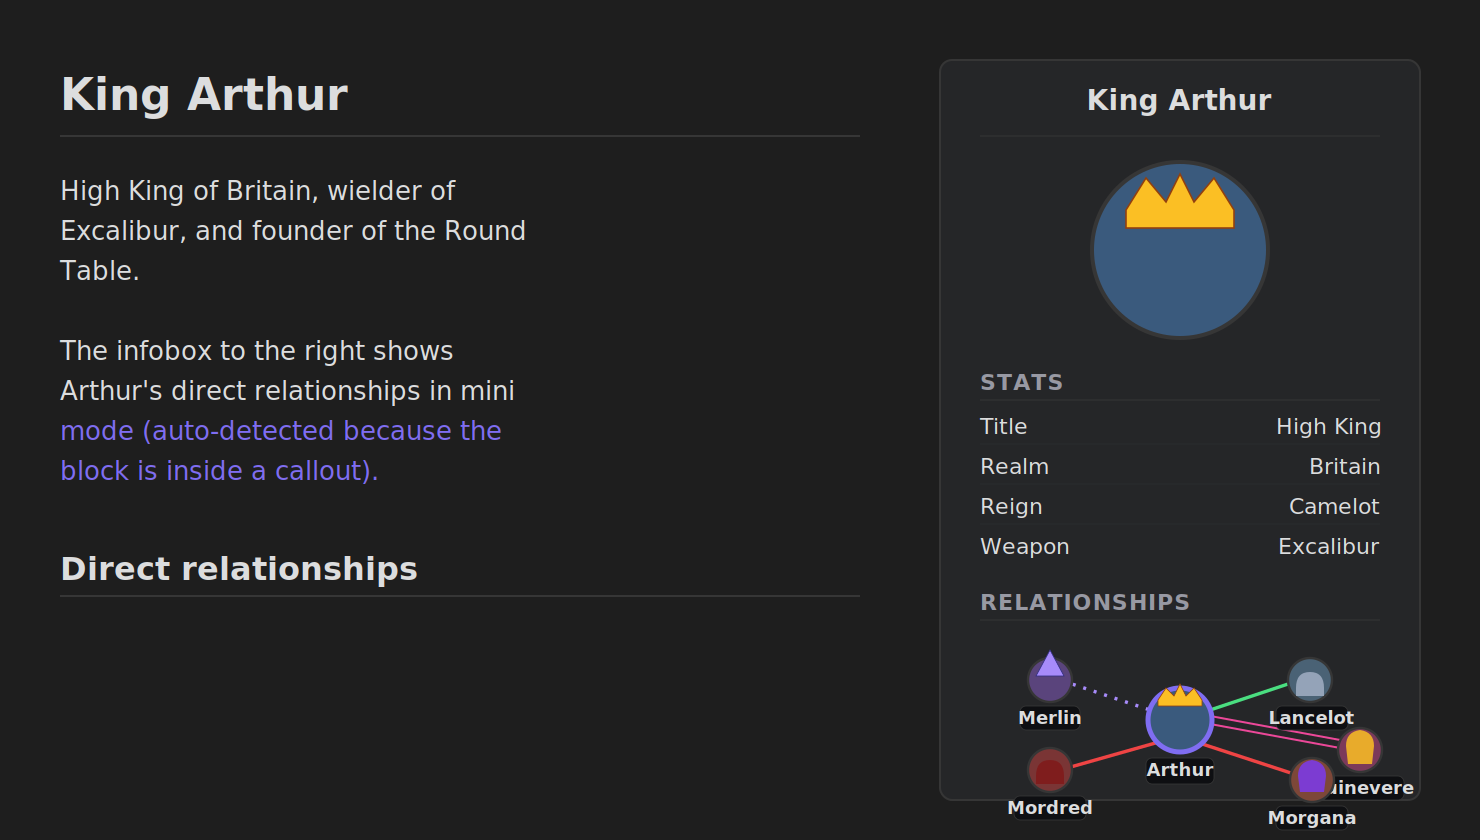
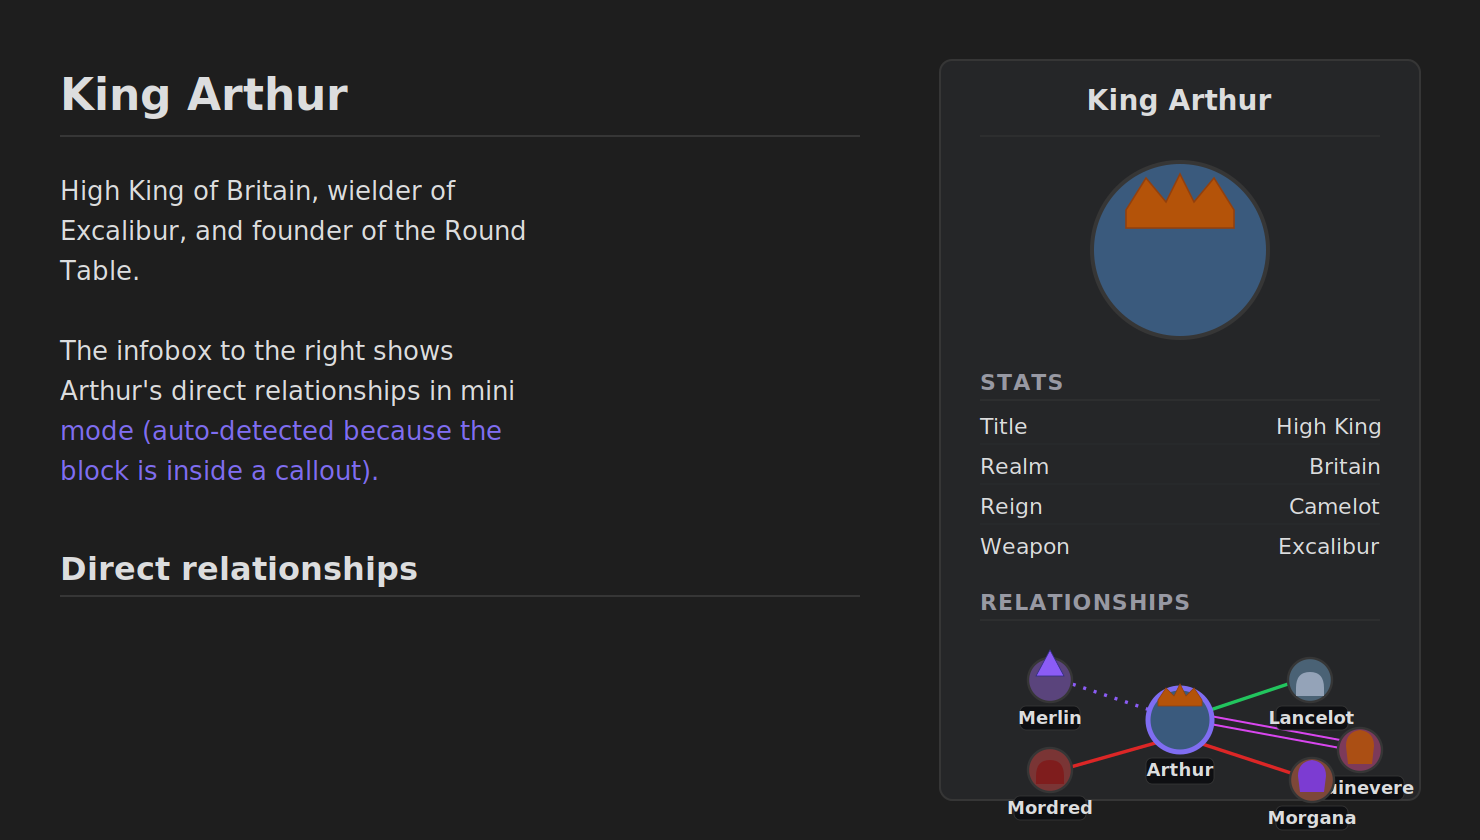
0.9.0
Added family-graph mode in place of family-tree which was not functioning as expected.

diff --git a/README.md b/README.md
@@ -4,11 +4,11 @@
 
 **See how your notes connect.**
 
-Visualise relationships between notes — for **worldbuilding**, **fiction**, **TTRPG campaigns**, **genealogies**, or any project where seeing how things connect matters. Note-driven via frontmatter, with portraits, typed line styles, family-tree layout, and embeddable graphs that work inside callouts and infoboxes.
+Visualise relationships between notes — for **worldbuilding**, **fiction**, **TTRPG campaigns**, **genealogies**, or any project where seeing how things connect matters. Note-driven via frontmatter, with portraits, typed line styles, a focused family view, and embeddable graphs that work inside callouts and infoboxes.
 
 ![Relations graph preview](docs/preview-graph.png)
 
-[Install](#install) · [Quick start](#quick-start) · [Embedding](#embedding-a-graph-in-a-note) · [Family-tree mode](#family-tree-mode) · [Settings](#relationship-types)
+[Install](#install) · [Quick start](#quick-start) · [Embedding](#embedding-a-graph-in-a-note) · [Family-graph mode](#family-graph-mode) · [Settings](#relationship-types)
 
 </div>
 
@@ -116,46 +116,50 @@ The empty block uses sensible defaults — direct neighbours of the host note, m
 | `depth`       | size-dependent         | hops from the focus note. `mini` is forced to 1; `small` defaults to 1; `large` defaults to 3 |
 | `scope`       | `local`                | `local` (this note + N hops) or `full` (entire vault)                          |
 | `tree`        | `false`                | force generic top-down dagre layout                                            |
-| `family-tree` | `false`                | proper family-tree layout — see below                                           |
+| `family-graph`| `false`                | family view: parents above the focus, partners on the same row, children below. See below. |
 | `zoom`        | `1.0`, `1.4` for mini  | zoom multiplier applied after fit. `1.5` or `"150%"` zooms in 50%             |
 | `height`      | size default           | override the embed's height. Accepts `px`, `em`, `rem`, `vh`, `vw`, or `%`     |
 | `center`      | host note              | wikilink or path of a different note to focus on, e.g. `"[[King Arthur]]"`     |
 
-## Family-tree mode
+## Family-graph mode
 
-A dedicated layout for genealogy-heavy graphs. Bloodline edges build generations, spouses pair side-by-side, and children sit under their parents' midpoint.
-
-Triggered by `family-tree: true` in any code block, or the **Family tree** toggle button in the side-panel toolbar.
+A focused family view for the host note. Generations are aligned in horizontal rows — parents above, the focus and any partners on the middle row, children below — with edges styled to distinguish marriage from informal partnership and parent from child.
 
 ```yaml
-# Aegon's note
+# Arthur's note
 parent:
   - "[[Uther]]"
   - "[[Igraine]]"
 spouse:
-  - "[[Rhaenys]]"
+  - "[[Guinevere]]"
 ```
 
 ````markdown
 ```relations
 size: large
-family-tree: true
+family-graph: true
 ```
 ````
 
-<details>
-<summary><b>How the layout actually works</b> (click to expand)</summary>
+### What you'll see
 
-1. **Bloodline edges build generations.** Any relationship type with **Gen** checked in settings counts as a bloodline. By default only `parent` is gen-flagged. The plugin runs a top-down dagre layout using *only* these edges, so generations stack horizontally.
-2. **Spouses pair side-by-side.** Any relationship with **Pair** checked (default: `spouse`) pulls partners onto the same horizontal line.
-3. **Children sit under the midpoint** of their parents' positions. Siblings are then spread evenly across the available space.
+- **Solid line** between two people = declared marriage (any `pair`-flagged relationship like `spouse`)
+- **Dotted line** between two people = informal partnership — automatically inferred when two people share a child but have no declared marriage between them. You don't have to model this explicitly; just declare the child's parents, and a partnership line appears
+- **Arrowed line** = parent → child (genealogy edge), pointing in the natural reading direction
+- **Declared spouses go to the LEFT** of the focus, **informal partners to the RIGHT** — a deterministic visual convention so the chart reads the same way every time, regardless of which order Obsidian indexed the frontmatter
+- **Only family appears** — ancestors, descendants, partners. Allies, enemies, mentors, and other relationship types are hidden so the family structure reads cleanly. Switch to the regular Full or Active-note views to see those
 
-A few honest limitations:
-- **Sibling order isn't deterministic.** Without explicit metadata the layout picks an order that minimises edge crossings, not birth order.
-- **Multiple marriages get awkward.** A person with two distinct spouses will have one placed adjacent and the other floating somewhere reachable. Real genealogy tools draw the person twice; we don't.
-- **It's a force-directed library doing tree work.** Visually it lands closer to a UML diagram than a sketched parchment chart — structurally correct, aesthetically simpler.
+### Use `scope: full` to see everything
 
-</details>
+By default `family-graph` builds a neighbourhood around the active note. To show the whole vault's family in one view, add `scope: full`:
+
+````markdown
+```relations
+size: large
+family-graph: true
+scope: full
+```
+````
 
 ## Relationship types
 
@@ -166,22 +170,26 @@ Configure types in **Settings → Relations**. Each type has a name (= frontmatt
 | **Sym**      | Symmetric — declaring on either note creates the relationship both ways. Off = one-way (drawn with an arrow).           |
 | **Pair**     | Pulls paired nodes very close, with a heavy connector. Use for `spouse`, `partner`, `bonded`.                            |
 | **Tree**     | When this type dominates a graph (≥60% of edges), auto-switches to top-down layout.                                       |
-| **Gen**      | Genealogy — counts as a bloodline edge in family-tree mode. Typically `parent`.                                          |
+| **Gen**      | Genealogy — counts as a bloodline edge in family-graph mode. Typically `parent`.                                          |
 | **Line**     | `solid`, `dashed`, `dotted`, or `double`. Useful for marking "secret", "former", "rumored" relationships.               |
 
 Defaults shipped:
 
-| Name    | Sym | Pair | Tree | Gen | Line    |
-|---------|:---:|:----:|:----:|:---:|---------|
-| ally    | ✓   |      |      |     | solid   |
-| enemy   | ✓   |      |      |     | solid   |
-| family  | ✓   |      | ✓    |     | solid   |
-| friend  | ✓   |      |      |     | solid   |
-| rival   | ✓   |      |      |     | dashed  |
-| spouse  | ✓   | ✓    |      |     | double  |
-| lover   | ✓   |      |      |     | dashed  |
-| mentor  |     |      |      |     | dotted  |
-| parent  |     |      | ✓    | ✓   | solid   |
+| Name    | Colour                | Sym | Pair | Tree | Gen | Line    |
+|---------|-----------------------|:---:|:----:|:----:|:---:|---------|
+| ally    | `#22c55e` emerald     | ✓   |      |      |     | solid   |
+| enemy   | `#dc2626` crimson     | ✓   |      |      |     | solid   |
+| family  | `#eab308` gold        | ✓   |      | ✓    |     | solid   |
+| friend  | `#0891b2` deep cyan   | ✓   |      |      |     | solid   |
+| rival   | `#fb923c` tangerine   | ✓   |      |      |     | dashed  |
+| spouse  | `#d946ef` fuchsia     | ✓   | ✓    |      |     | double  |
+| lover   | `#fb7185` rose        | ✓   |      |      |     | dashed  |
+| mentor  | `#8b5cf6` violet      |     |      |      |     | dotted  |
+| parent  | `#b45309` bronze      |     |      | ✓    | ✓   | solid   |
+
+The palette is chosen so each line is distinguishable from every other at the typical edge widths used in the graph view, on both Obsidian dark and light themes. Greens read as positive, reds and oranges as adversarial, gold and bronze as kinship, pinks as romantic, violet for the asymmetric mentor relationship.
+
+![Palette](docs/palette.png)
 
 Rename, recolour, add, or delete freely — they're just defaults.
 